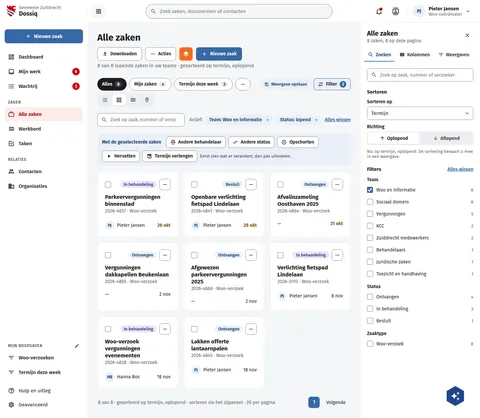
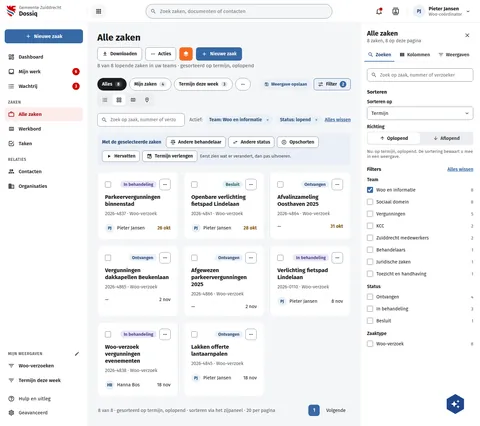
fix(screens): DqZakenSorteren's card title and number line 10px apart, as DqAanMijToegewezen's (#546)
The two boards draw the same record card; Sorteren set 2px between title
and number line, AanMij 10px. Live reads 10 with nc-vue
fix/r32-board-record-card-text-leading.

Assisted-by: ClaudeCode:claude-opus-5-5

diff --git a/preview/screens/boards/DqZakenSorteren.html b/preview/screens/boards/DqZakenSorteren.html
@@ -195,7 +195,7 @@ a{color:var(--sc-primary, #3669a5)}a:hover{color:var(--sc-primary-deep, #234a78)
                 <span style="margin-left: auto; display: inline-block; padding: 3px 10px; border-radius: 12px; font-size: 13px; font-weight: 600; background: #e8e6f6; color: #4a3f8f">In behandeling</span>
                 <span aria-label="Acties" style="flex: none; display: inline-flex; align-items: center; justify-content: center; width: 34px; height: 34px; box-sizing: border-box; border: 1px solid var(--sc-work-field, #828a95); border-radius: 8px; background: #ffffff; color: var(--sc-work-ink, #1b1c1d)"><svg width="16" height="16" viewbox="0 0 24 24" fill="currentColor" aria-hidden="true"><path d="M16,12A2,2 0 0,1 18,10A2,2 0 0,1 20,12A2,2 0 0,1 18,14A2,2 0 0,1 16,12M10,12A2,2 0 0,1 12,10A2,2 0 0,1 14,12A2,2 0 0,1 12,14A2,2 0 0,1 10,12M4,12A2,2 0 0,1 6,10A2,2 0 0,1 8,12A2,2 0 0,1 6,14A2,2 0 0,1 4,12Z"></path></svg></span>
               </div>
-              <div style="display: flex; flex-direction: column; gap: 2px; min-width: 0">
+              <div style="display: flex; flex-direction: column; gap: 10px; min-width: 0">
                 <a href="DqZaak.html" style="font-size: 17px; font-weight: 700; color: var(--sc-work-ink, #1b1c1d); text-decoration: none">Parkeervergunningen binnenstad</a>
                 <span style="font-size: 14px; color: var(--sc-work-muted, #5e6168)">2026-4837 · Woo-verzoek</span>
               </div>
@@ -211,7 +211,7 @@ a{color:var(--sc-primary, #3669a5)}a:hover{color:var(--sc-primary-deep, #234a78)
                 <span style="margin-left: auto; display: inline-block; padding: 3px 10px; border-radius: 12px; font-size: 13px; font-weight: 600; background: #e3f1f3; color: #1d5e66">Besluit</span>
                 <span aria-label="Acties" style="flex: none; display: inline-flex; align-items: center; justify-content: center; width: 34px; height: 34px; box-sizing: border-box; border: 1px solid var(--sc-work-field, #828a95); border-radius: 8px; background: #ffffff; color: var(--sc-work-ink, #1b1c1d)"><svg width="16" height="16" viewbox="0 0 24 24" fill="currentColor" aria-hidden="true"><path d="M16,12A2,2 0 0,1 18,10A2,2 0 0,1 20,12A2,2 0 0,1 18,14A2,2 0 0,1 16,12M10,12A2,2 0 0,1 12,10A2,2 0 0,1 14,12A2,2 0 0,1 12,14A2,2 0 0,1 10,12M4,12A2,2 0 0,1 6,10A2,2 0 0,1 8,12A2,2 0 0,1 6,14A2,2 0 0,1 4,12Z"></path></svg></span>
               </div>
-              <div style="display: flex; flex-direction: column; gap: 2px; min-width: 0">
+              <div style="display: flex; flex-direction: column; gap: 10px; min-width: 0">
                 <a href="DqZaak.html" style="font-size: 17px; font-weight: 700; color: var(--sc-work-ink, #1b1c1d); text-decoration: none">Openbare verlichting fietspad Lindelaan</a>
                 <span style="font-size: 14px; color: var(--sc-work-muted, #5e6168)">2026-4841 · Woo-verzoek</span>
               </div>
@@ -227,7 +227,7 @@ a{color:var(--sc-primary, #3669a5)}a:hover{color:var(--sc-primary-deep, #234a78)
                 <span style="margin-left: auto; display: inline-block; padding: 3px 10px; border-radius: 12px; font-size: 13px; font-weight: 600; background: var(--sc-primary-light, #eaf0f7); color: var(--sc-primary-deep, #234a78)">Ontvangen</span>
                 <span aria-label="Acties" style="flex: none; display: inline-flex; align-items: center; justify-content: center; width: 34px; height: 34px; box-sizing: border-box; border: 1px solid var(--sc-work-field, #828a95); border-radius: 8px; background: #ffffff; color: var(--sc-work-ink, #1b1c1d)"><svg width="16" height="16" viewbox="0 0 24 24" fill="currentColor" aria-hidden="true"><path d="M16,12A2,2 0 0,1 18,10A2,2 0 0,1 20,12A2,2 0 0,1 18,14A2,2 0 0,1 16,12M10,12A2,2 0 0,1 12,10A2,2 0 0,1 14,12A2,2 0 0,1 12,14A2,2 0 0,1 10,12M4,12A2,2 0 0,1 6,10A2,2 0 0,1 8,12A2,2 0 0,1 6,14A2,2 0 0,1 4,12Z"></path></svg></span>
               </div>
-              <div style="display: flex; flex-direction: column; gap: 2px; min-width: 0">
+              <div style="display: flex; flex-direction: column; gap: 10px; min-width: 0">
                 <a href="DqZaak.html" style="font-size: 17px; font-weight: 700; color: var(--sc-work-ink, #1b1c1d); text-decoration: none">Afvalinzameling Oosthaven 2025</a>
                 <span style="font-size: 14px; color: var(--sc-work-muted, #5e6168)">2026-4864 · Woo-verzoek</span>
               </div>
@@ -243,7 +243,7 @@ a{color:var(--sc-primary, #3669a5)}a:hover{color:var(--sc-primary-deep, #234a78)
                 <span style="margin-left: auto; display: inline-block; padding: 3px 10px; border-radius: 12px; font-size: 13px; font-weight: 600; background: var(--sc-primary-light, #eaf0f7); color: var(--sc-primary-deep, #234a78)">Ontvangen</span>
                 <span aria-label="Acties" style="flex: none; display: inline-flex; align-items: center; justify-content: center; width: 34px; height: 34px; box-sizing: border-box; border: 1px solid var(--sc-work-field, #828a95); border-radius: 8px; background: #ffffff; color: var(--sc-work-ink, #1b1c1d)"><svg width="16" height="16" viewbox="0 0 24 24" fill="currentColor" aria-hidden="true"><path d="M16,12A2,2 0 0,1 18,10A2,2 0 0,1 20,12A2,2 0 0,1 18,14A2,2 0 0,1 16,12M10,12A2,2 0 0,1 12,10A2,2 0 0,1 14,12A2,2 0 0,1 12,14A2,2 0 0,1 10,12M4,12A2,2 0 0,1 6,10A2,2 0 0,1 8,12A2,2 0 0,1 6,14A2,2 0 0,1 4,12Z"></path></svg></span>
               </div>
-              <div style="display: flex; flex-direction: column; gap: 2px; min-width: 0">
+              <div style="display: flex; flex-direction: column; gap: 10px; min-width: 0">
                 <a href="DqZaak.html" style="font-size: 17px; font-weight: 700; color: var(--sc-work-ink, #1b1c1d); text-decoration: none">Vergunningen dakkapellen Beukenlaan</a>
                 <span style="font-size: 14px; color: var(--sc-work-muted, #5e6168)">2026-4865 · Woo-verzoek</span>
               </div>
@@ -259,7 +259,7 @@ a{color:var(--sc-primary, #3669a5)}a:hover{color:var(--sc-primary-deep, #234a78)
                 <span style="margin-left: auto; display: inline-block; padding: 3px 10px; border-radius: 12px; font-size: 13px; font-weight: 600; background: var(--sc-primary-light, #eaf0f7); color: var(--sc-primary-deep, #234a78)">Ontvangen</span>
                 <span aria-label="Acties" style="flex: none; display: inline-flex; align-items: center; justify-content: center; width: 34px; height: 34px; box-sizing: border-box; border: 1px solid var(--sc-work-field, #828a95); border-radius: 8px; background: #ffffff; color: var(--sc-work-ink, #1b1c1d)"><svg width="16" height="16" viewbox="0 0 24 24" fill="currentColor" aria-hidden="true"><path d="M16,12A2,2 0 0,1 18,10A2,2 0 0,1 20,12A2,2 0 0,1 18,14A2,2 0 0,1 16,12M10,12A2,2 0 0,1 12,10A2,2 0 0,1 14,12A2,2 0 0,1 12,14A2,2 0 0,1 10,12M4,12A2,2 0 0,1 6,10A2,2 0 0,1 8,12A2,2 0 0,1 6,14A2,2 0 0,1 4,12Z"></path></svg></span>
               </div>
-              <div style="display: flex; flex-direction: column; gap: 2px; min-width: 0">
+              <div style="display: flex; flex-direction: column; gap: 10px; min-width: 0">
                 <a href="DqZaak.html" style="font-size: 17px; font-weight: 700; color: var(--sc-work-ink, #1b1c1d); text-decoration: none">Afgewezen parkeervergunningen 2025</a>
                 <span style="font-size: 14px; color: var(--sc-work-muted, #5e6168)">2026-4866 · Woo-verzoek</span>
               </div>
@@ -275,7 +275,7 @@ a{color:var(--sc-primary, #3669a5)}a:hover{color:var(--sc-primary-deep, #234a78)
                 <span style="margin-left: auto; display: inline-block; padding: 3px 10px; border-radius: 12px; font-size: 13px; font-weight: 600; background: #e8e6f6; color: #4a3f8f">In behandeling</span>
                 <span aria-label="Acties" style="flex: none; display: inline-flex; align-items: center; justify-content: center; width: 34px; height: 34px; box-sizing: border-box; border: 1px solid var(--sc-work-field, #828a95); border-radius: 8px; background: #ffffff; color: var(--sc-work-ink, #1b1c1d)"><svg width="16" height="16" viewbox="0 0 24 24" fill="currentColor" aria-hidden="true"><path d="M16,12A2,2 0 0,1 18,10A2,2 0 0,1 20,12A2,2 0 0,1 18,14A2,2 0 0,1 16,12M10,12A2,2 0 0,1 12,10A2,2 0 0,1 14,12A2,2 0 0,1 12,14A2,2 0 0,1 10,12M4,12A2,2 0 0,1 6,10A2,2 0 0,1 8,12A2,2 0 0,1 6,14A2,2 0 0,1 4,12Z"></path></svg></span>
               </div>
-              <div style="display: flex; flex-direction: column; gap: 2px; min-width: 0">
+              <div style="display: flex; flex-direction: column; gap: 10px; min-width: 0">
                 <a href="DqZaak.html" style="font-size: 17px; font-weight: 700; color: var(--sc-work-ink, #1b1c1d); text-decoration: none">Verlichting fietspad Lindelaan</a>
                 <span style="font-size: 14px; color: var(--sc-work-muted, #5e6168)">2026-0110 · Woo-verzoek</span>
               </div>
@@ -291,7 +291,7 @@ a{color:var(--sc-primary, #3669a5)}a:hover{color:var(--sc-primary-deep, #234a78)
                 <span style="margin-left: auto; display: inline-block; padding: 3px 10px; border-radius: 12px; font-size: 13px; font-weight: 600; background: #e8e6f6; color: #4a3f8f">In behandeling</span>
                 <span aria-label="Acties" style="flex: none; display: inline-flex; align-items: center; justify-content: center; width: 34px; height: 34px; box-sizing: border-box; border: 1px solid var(--sc-work-field, #828a95); border-radius: 8px; background: #ffffff; color: var(--sc-work-ink, #1b1c1d)"><svg width="16" height="16" viewbox="0 0 24 24" fill="currentColor" aria-hidden="true"><path d="M16,12A2,2 0 0,1 18,10A2,2 0 0,1 20,12A2,2 0 0,1 18,14A2,2 0 0,1 16,12M10,12A2,2 0 0,1 12,10A2,2 0 0,1 14,12A2,2 0 0,1 12,14A2,2 0 0,1 10,12M4,12A2,2 0 0,1 6,10A2,2 0 0,1 8,12A2,2 0 0,1 6,14A2,2 0 0,1 4,12Z"></path></svg></span>
               </div>
-              <div style="display: flex; flex-direction: column; gap: 2px; min-width: 0">
+              <div style="display: flex; flex-direction: column; gap: 10px; min-width: 0">
                 <a href="DqZaak.html" style="font-size: 17px; font-weight: 700; color: var(--sc-work-ink, #1b1c1d); text-decoration: none">Woo-verzoek vergunningen evenementen</a>
                 <span style="font-size: 14px; color: var(--sc-work-muted, #5e6168)">2026-4838 · Woo-verzoek</span>
               </div>
@@ -307,7 +307,7 @@ a{color:var(--sc-primary, #3669a5)}a:hover{color:var(--sc-primary-deep, #234a78)
                 <span style="margin-left: auto; display: inline-block; padding: 3px 10px; border-radius: 12px; font-size: 13px; font-weight: 600; background: var(--sc-primary-light, #eaf0f7); color: var(--sc-primary-deep, #234a78)">Ontvangen</span>
                 <span aria-label="Acties" style="flex: none; display: inline-flex; align-items: center; justify-content: center; width: 34px; height: 34px; box-sizing: border-box; border: 1px solid var(--sc-work-field, #828a95); border-radius: 8px; background: #ffffff; color: var(--sc-work-ink, #1b1c1d)"><svg width="16" height="16" viewbox="0 0 24 24" fill="currentColor" aria-hidden="true"><path d="M16,12A2,2 0 0,1 18,10A2,2 0 0,1 20,12A2,2 0 0,1 18,14A2,2 0 0,1 16,12M10,12A2,2 0 0,1 12,10A2,2 0 0,1 14,12A2,2 0 0,1 12,14A2,2 0 0,1 10,12M4,12A2,2 0 0,1 6,10A2,2 0 0,1 8,12A2,2 0 0,1 6,14A2,2 0 0,1 4,12Z"></path></svg></span>
               </div>
-              <div style="display: flex; flex-direction: column; gap: 2px; min-width: 0">
+              <div style="display: flex; flex-direction: column; gap: 10px; min-width: 0">
                 <a href="DqZaak.html" style="font-size: 17px; font-weight: 700; color: var(--sc-work-ink, #1b1c1d); text-decoration: none">Lakken offerte lantaarnpalen</a>
                 <span style="font-size: 14px; color: var(--sc-work-muted, #5e6168)">2026-4845 · Woo-verzoek</span>
               </div>

diff --git a/screens-src/zuiddrecht/DqZakenSorteren.dc.html b/screens-src/zuiddrecht/DqZakenSorteren.dc.html
@@ -67,7 +67,7 @@ a{color:#3669a5}a:hover{color:#234a78}
                 <span style="margin-left: auto; {{ r.statusStyle }}">{{ r.status }}</span>
                 <span aria-label="Acties" style="flex: none; display: inline-flex; align-items: center; justify-content: center; width: 34px; height: 34px; box-sizing: border-box; border: 1px solid #828a95; border-radius: 8px; background: #ffffff; color: #1b1c1d"><svg width="16" height="16" viewBox="0 0 24 24" fill="currentColor" aria-hidden="true"><path d="M16,12A2,2 0 0,1 18,10A2,2 0 0,1 20,12A2,2 0 0,1 18,14A2,2 0 0,1 16,12M10,12A2,2 0 0,1 12,10A2,2 0 0,1 14,12A2,2 0 0,1 12,14A2,2 0 0,1 10,12M4,12A2,2 0 0,1 6,10A2,2 0 0,1 8,12A2,2 0 0,1 6,14A2,2 0 0,1 4,12Z"></path></svg></span>
               </div>
-              <div style="display: flex; flex-direction: column; gap: 2px; min-width: 0">
+              <div style="display: flex; flex-direction: column; gap: 10px; min-width: 0">
                 <a href="DqZaak.dc.html" style="font-size: 17px; font-weight: 700; color: #1b1c1d; text-decoration: none">{{ r.title }}</a>
                 <span style="font-size: 14px; color: #5e6168">{{ r.number }} · {{ r.type }}</span>
               </div>
